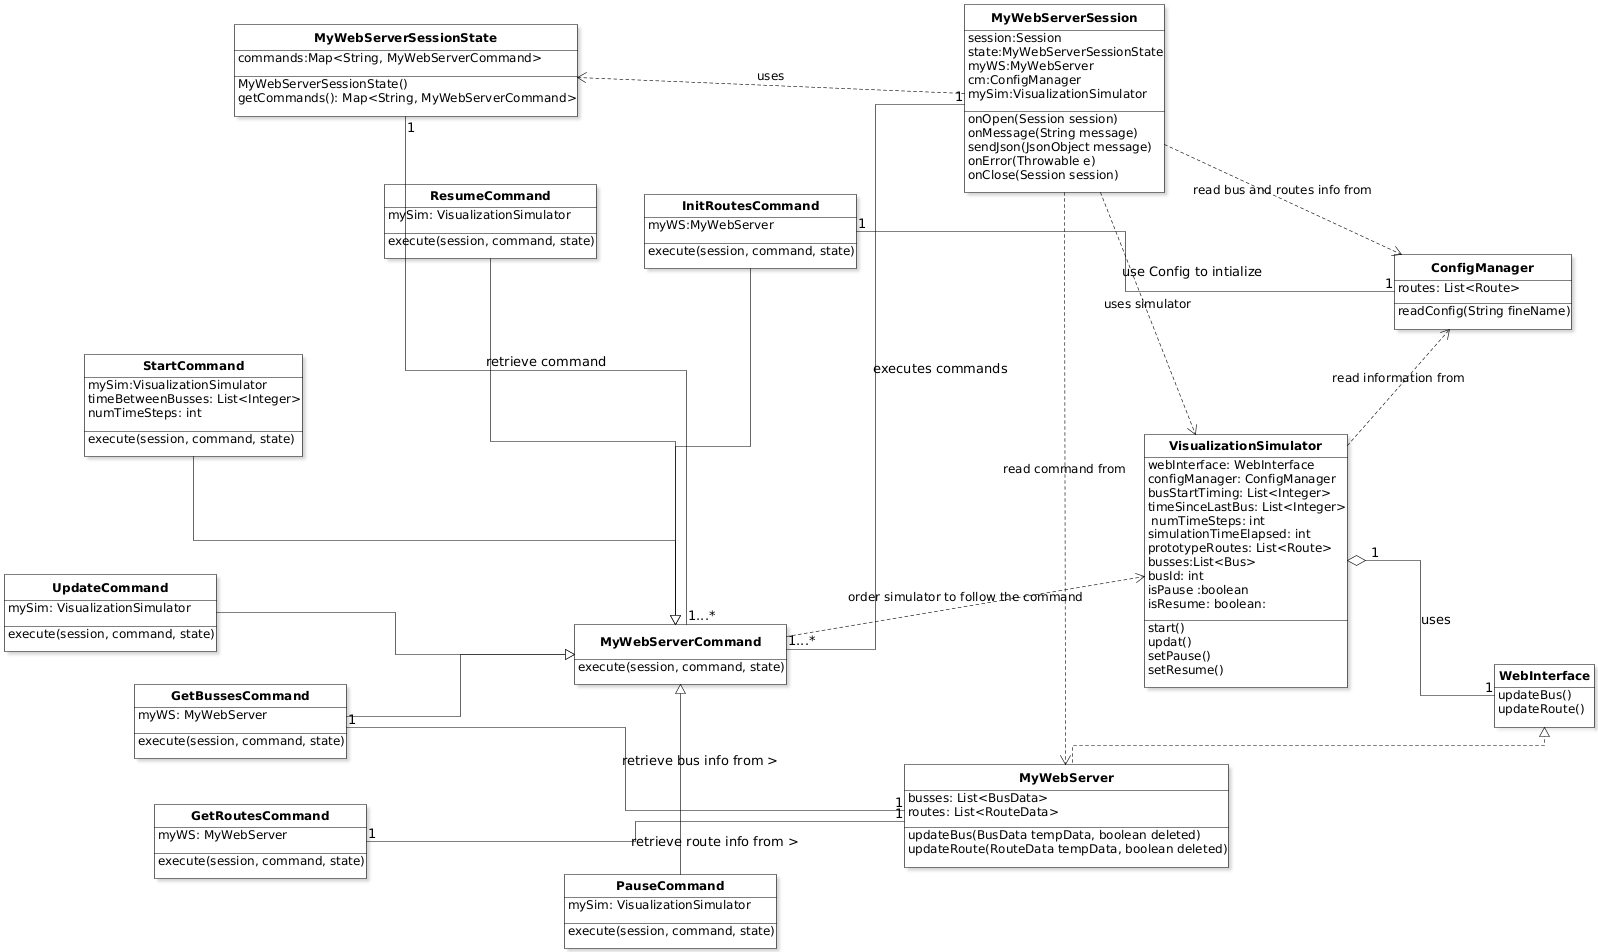
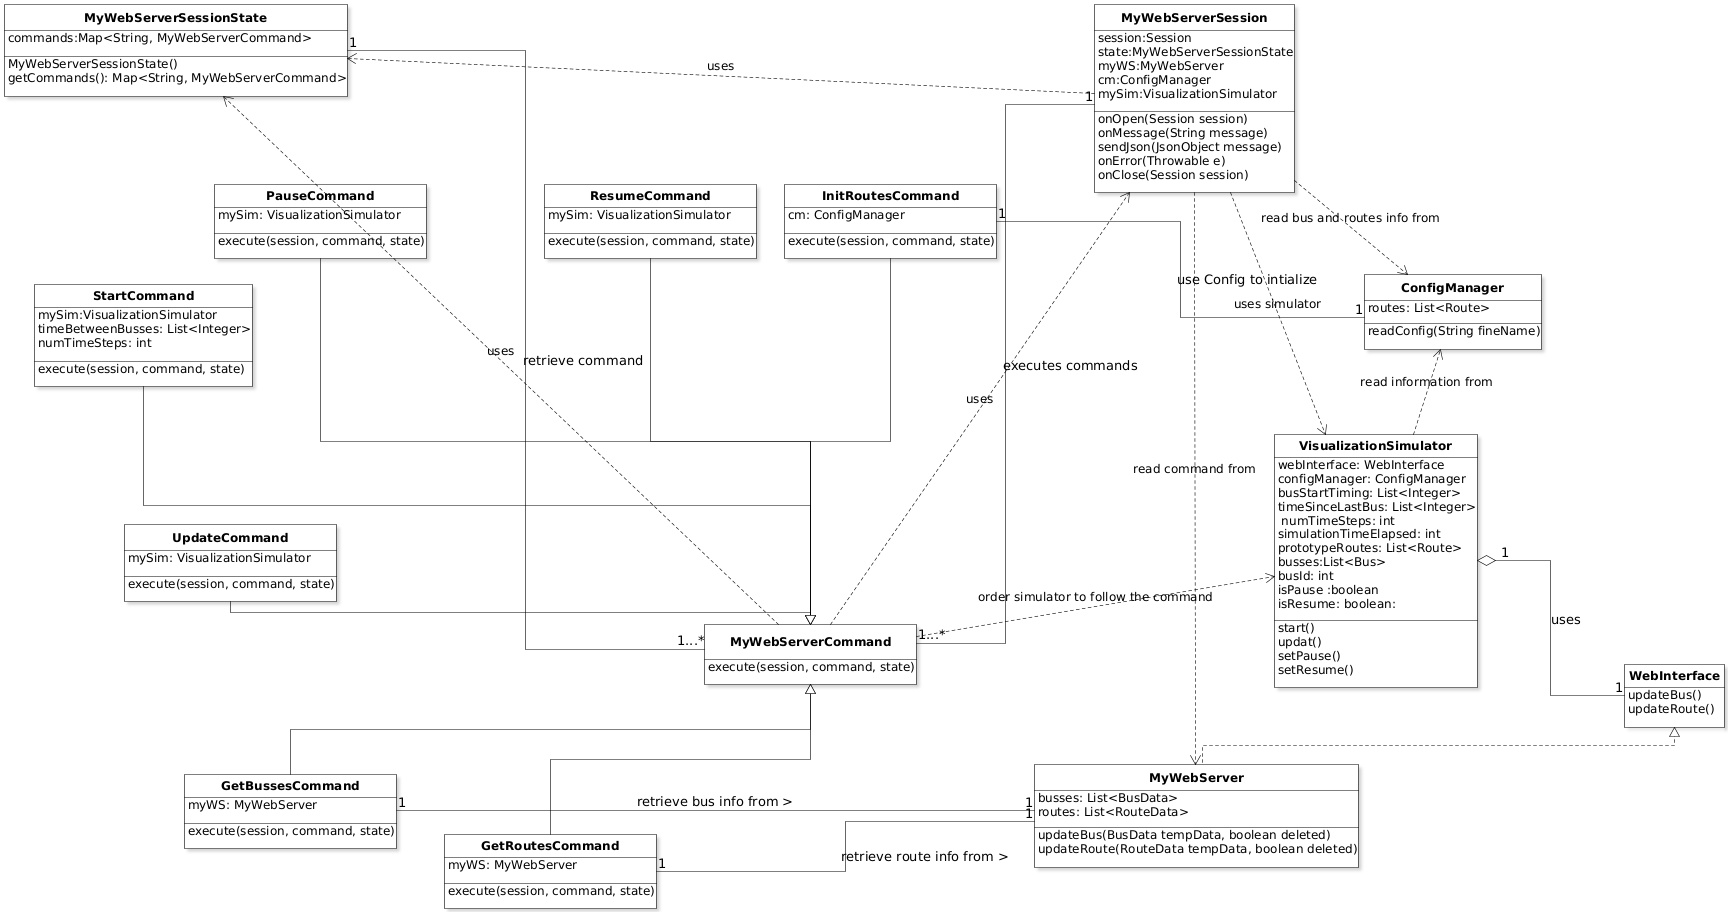
Task1 finished up

diff --git a/doc/overview.html b/doc/overview.html
@@ -5,11 +5,15 @@
 <body>
   <h1>Introduction</h1>
   <p>Task 1 description of the VTS software.</p>
+  <p>To use the VTS software, you can simply type "./gradlew appRun" in your terminal under the project directory, then open your browser, copy and paste "http://localhost:7777/project/web_graphics/project.html" into it. Then you can adjust your settings in the left of the simulator website and click run to run this simulator.</p>
+  <p>For configuration, you can simply edit the file under src/main/resources named config.txt. There are currently two routes in this file.</p>
+  <p>If you want to check if there is any error in this project, you can run "./gradlew clean check" to check if there remains any code doesn't conform to the google java code style guidelines. Or you can check the javadoc docucumentation. To do this, first, type "./gradlew clean javadoc" in the terminal udner the project directory. Then you can open projectDir/build/reports/checkstyle/main.html then click on any parts to see the number of errors.</p>
   <h1>UML Class Diagram for Domain Classes</h1>
   <img src="diagrams/domain_diagram.png" alt="UML Class Diagram for Domain Classes" width="800" height="400">
-  <p>Comments on the UML class diagram for domain classes.</p>
+  <p>ConfigManager stores the routes information, MyWebServerSession and Visualization reads the routes information from it; ResumeCommand, InitRoutesCommand, StartCommand, UpdateCommand, GetBussesCommand,GetRoutesCommand,PauseCommand are 7 types of MyWebServerCommand. VisulizationSimulator executes the StartCommand, UpdateCommand, PauseCommand,ResumeCommand order and use the simulator to follow the order; while GetBussesCommand and GetRoutesCommand read information from WebServer, InitRoutesCommand follow the ConfigManager rules.
+  MyWebServerSession uses VisulizationSimulator, ConfigManag er,MyWebServerSessionState </p>
   <h1>UML Class Diagram for Web Server Classes</h1>
   <img src="diagrams/webserver_diagram.png" alt="UML Class Diagram for Domain Classes" width="800" height="400">
-  <p>Comments on the UML class diagram for web server classes.</p>
+  <p>This diagram simply describes the files in the projectDir/src/main/java/edu/umn/cs/csci3081w/project/model. Bus class contains all the information of the bus, including the name of the bus, route in, route out, capacity of the bus and the speed of the bus. BusData stores the basic information of a bus and how to get the parameters of the bus. For the other classes like Stop, Route, they simply do the same thing as well as the StopData, RouteData. In general, random passengers will be generated by RandomPassengerGenerator under the PassengerGenerator. If a passenger wants to get on a bus, he/she has to wait at the stop and be added to the passenger list of this certain stop, then once the bus arrives, passenger can choose to get on the bus or wait at a stop if this is not the bus he/she wants to get on. At the same time, the time parameter of the passenger can be added by one. When the passenger gets at his/her destination stop, he/she can get off the bus, then the bus information can be updated because the number of people on the bus has been changed. Then if the bus runs its route fully, it quits the route on the map.</p>
 </body>
 </html>
